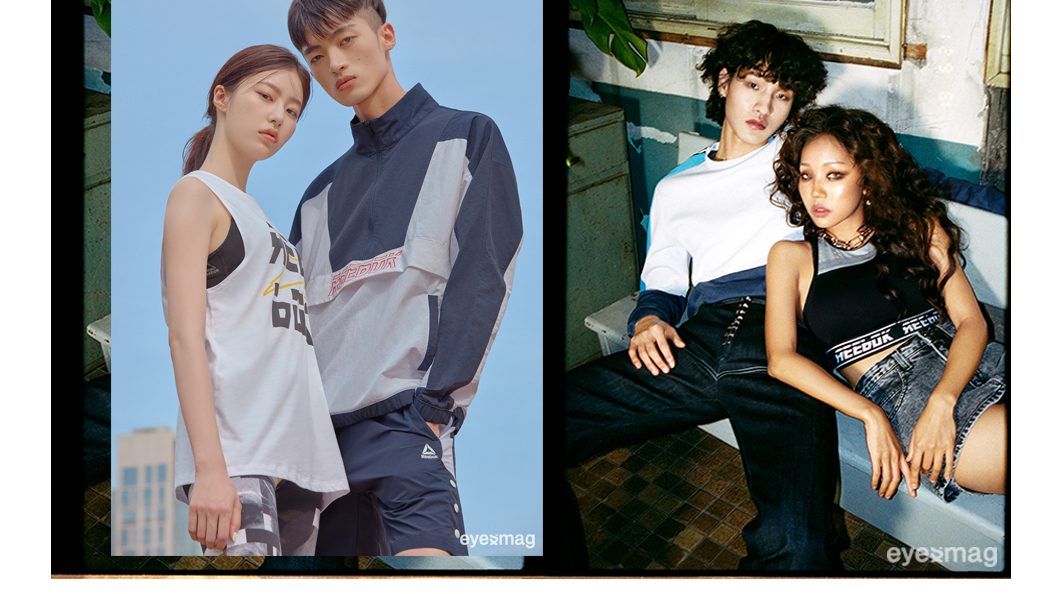
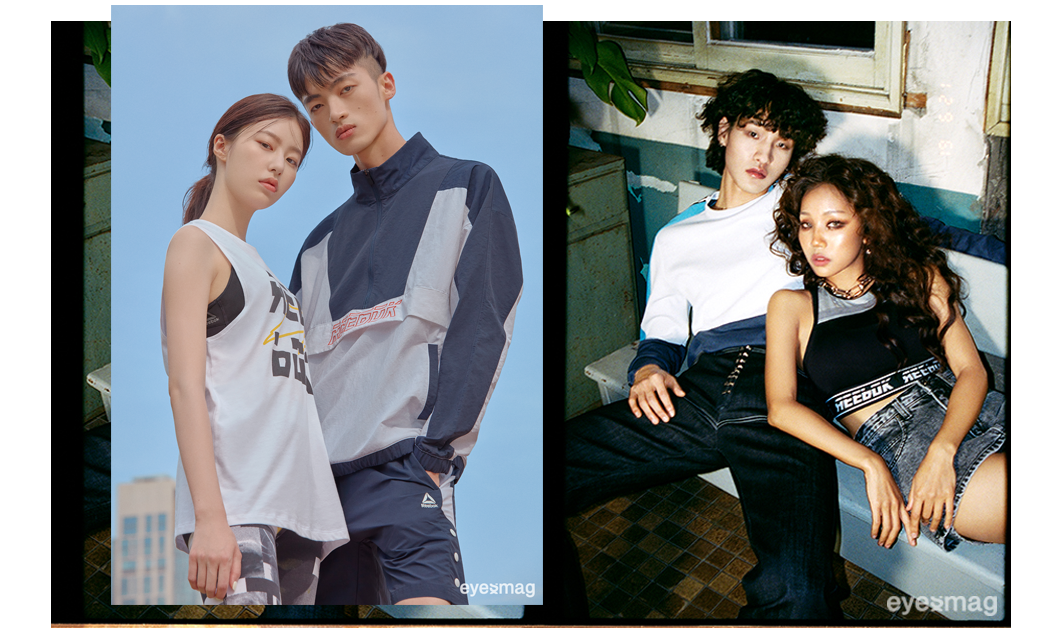
ree_CP_솔퓨리 슬라이드 수정

diff --git a/front/html/reebok/2019/event/solefury/0725/build/index.html b/front/html/reebok/2019/event/solefury/0725/build/index.html
@@ -882,7 +882,7 @@
 						// 슬라이더01
 						var sliders01 = $('.slide01 #sliders').Swipers({
 							width: 1062,
-							height: 617,
+							height: 623,
 							duration: 600,
 							loop: true,
 							auto: true,	

diff --git a/front/html/reebok/2019/event/solefury/0725/index.html b/front/html/reebok/2019/event/solefury/0725/index.html
@@ -880,7 +880,7 @@
 						// 슬라이더01
 						var sliders01 = $('.slide01 #sliders').Swipers({
 							width: 1062,
-							height: 617,
+							height: 623,
 							duration: 600,
 							loop: true,
 							auto: true,	
